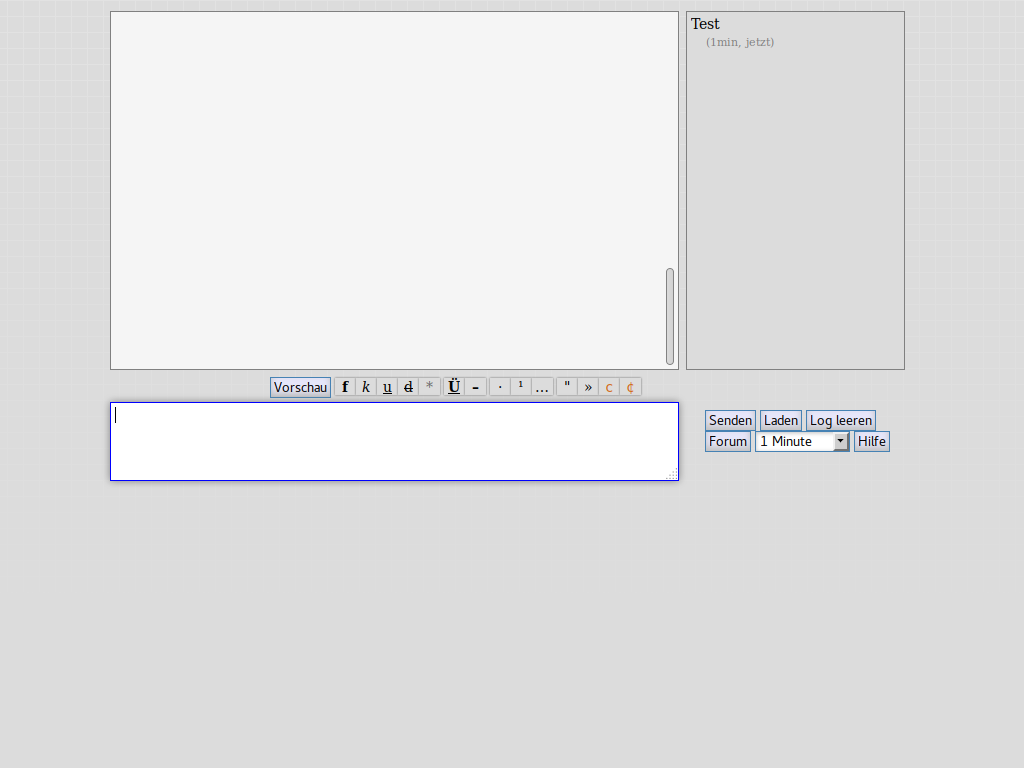
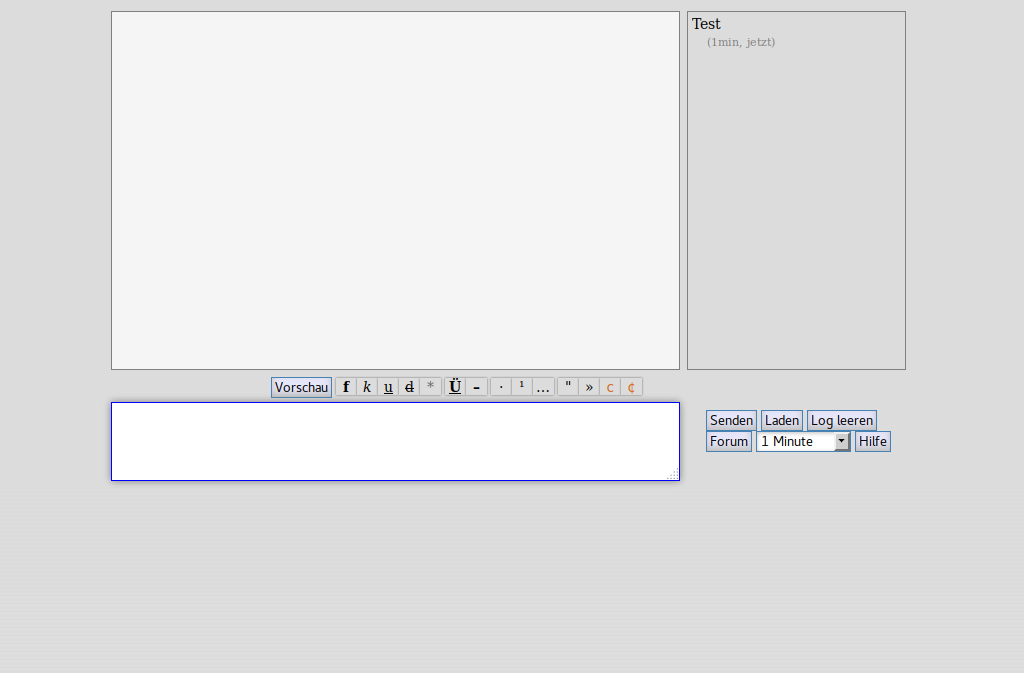
Screenshots und Chat an neuen Hintergrund angepasst

Changed region(s): [[0.0938, 0.0, 0.875, 0.7177]]

diff --git a/public/theme/chat.css b/public/theme/chat.css
@@ -5,7 +5,7 @@
 body {
     font-family: sans-serif;
     color: black;
-    background: gainsboro url('img/hg.png') repeat-x top center fixed;
+    background: gainsboro url('img/hg.png') repeat-x top center fixed bottom;
     overflow: hidden;
     width: 65em;
     height: 30em;
